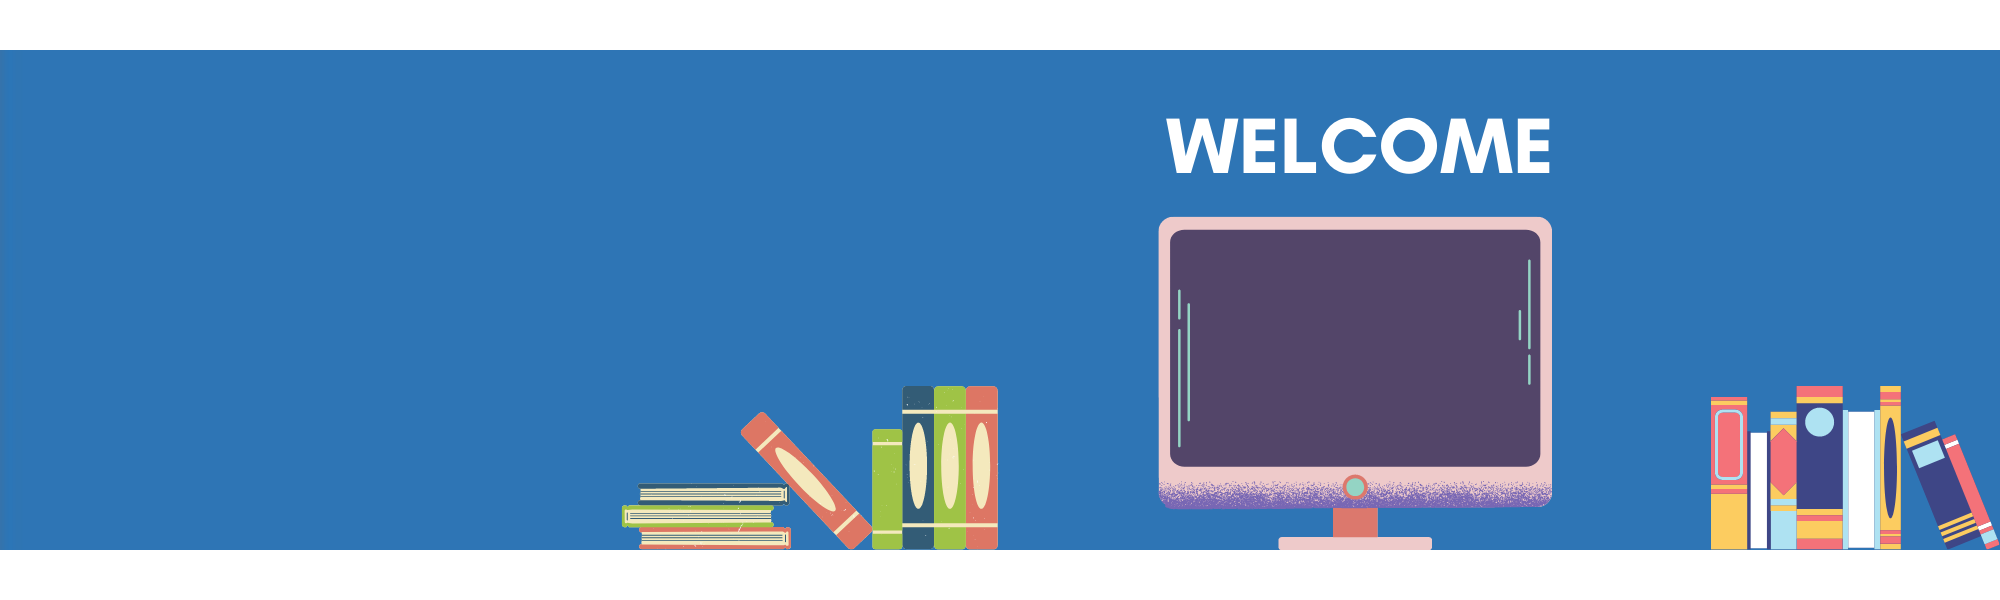
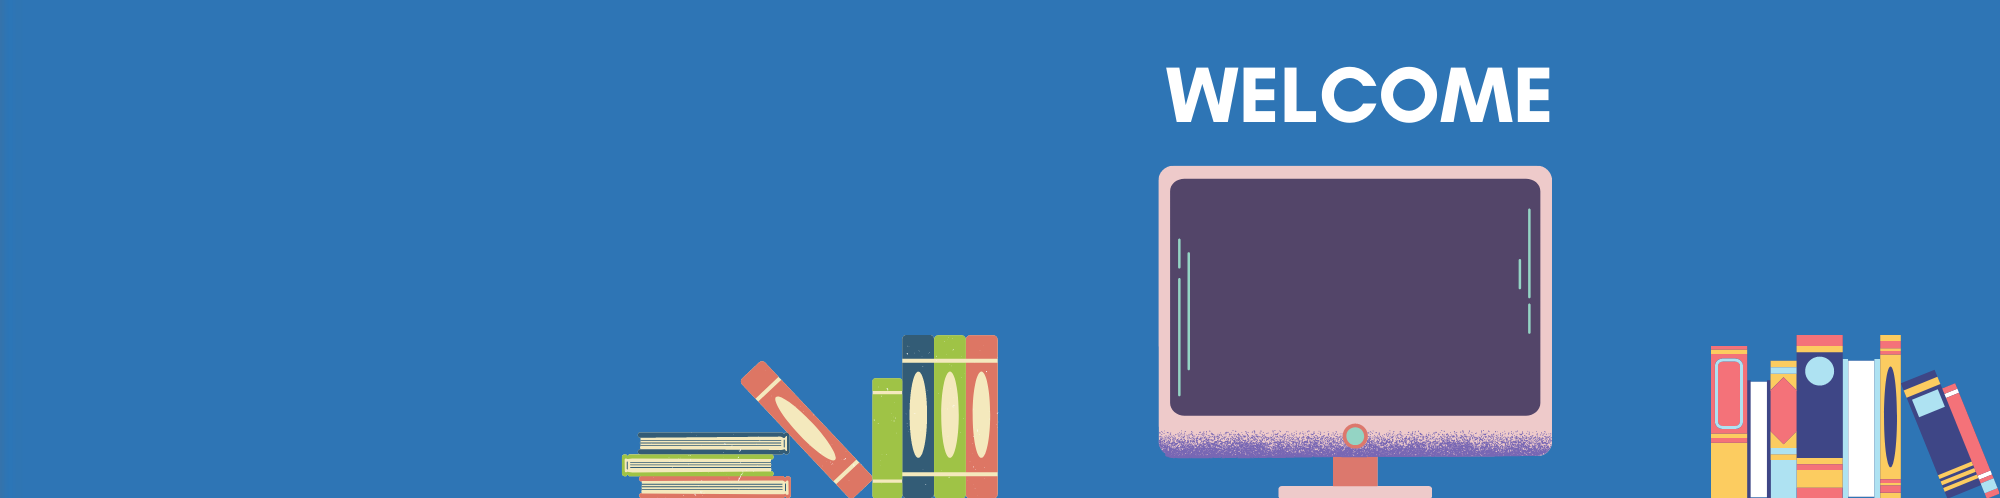
Landing page colour scheme changed at set timed intervals complete

diff --git a/pages/SinglePageTheme.html b/pages/SinglePageTheme.html
@@ -24,53 +24,69 @@
                 <img src="/SinglePageTheme/images/movingBanner.gif" alt="" width="30" height="24" class="d-inline-block align-text-top rounded-circle">
                 Navbar
             </a>
-            <em><span class="navbar-text text-capitalize text-bg-primary px-2">Changing the colour theme every day</span></em>
+            <em><span id="nav_inline_text" class="navbar-text text-capitalize text-bg-warning px-2">Changing the colour theme every day</span></em>
             <button class="navbar-toggler" type="button" data-bs-toggle="collapse" data-bs-target="#navbarNav" aria-controls="navbarNav" aria-expanded="false" aria-label="Toggle navigation">
               <span class="navbar-toggler-icon"></span>
             </button>
             <div class="collapse navbar-collapse" id="navbarNav">
               <ul class="navbar-nav">        
                   <a class="nav-link active" aria-current="page" href="#">Current Home</a>         
-                  <a class="nav-link" href="/index.html">Main Page</a>          
-                  <a class="nav-link" href="#">Link</a>
-                  <a class="nav-link" href="#">Link</a>
+                  <a class="nav-link" href="/index.html">Back to Main Page</a>          
+                  <a class="nav-link" href="#">Link to nowhere</a>
+                  <a class="nav-link" href="#">Link to nowhere</a>
               </ul>
             </div>
-          </div>
+        </div>
     </nav>
 
-    <div id="hero_section" class="carousel">
-        <img src="/SinglePageTheme/images/Blue_Banner.png" class="img-fluid d-block w-100" alt="Hero image">
-        <div class="carousel-caption ">
-            <h1>Hero section,</h1>
-            <p>lorem ipsum dolor sit</p>
+    <div class="container-fluid p-0">
+        <div id="hero_section" class="carousel slide pb-3 bg-black" data-bs-ride="carousel" >
+            <div class="carousel-inner">
+                <div class="carousel-item active" data-bs-interval="5000">
+                    <img src="/SinglePageTheme/images/Blue_Banner_short.png"  alt="Hero image" class="d-block w-100">
+                </div>
+                <div class="carousel-item" data-bs-interval="5000">
+                    <img src="/SinglePageTheme/images/Blue_Banner_Graphic_short.png"  alt="Hero image" class="d-block w-100">
+                </div>
+            </div>
+            <div class="carousel-caption text-start m-0 p-0">
+                <h1 class="fw-bold display-3">Hero section,</h1>
+                <p class="fs-4 text-black fw-semibold mb-sm-5">lorem ipsum dolor sit</p>
+                
+            </div>
         </div>
     </div>
     
     <header>
-        <div id="container_text1" class="container-fluid ">
-            <div class="row bg-white row-cols-1 row-cols-md-3 pb-5">
-                <div class="col text-md-center bg-dark text-white mb-1">
+        <div id="container_text1" class="container-fluid">
+            <div class="row bg-white row-cols-1 row-cols-md-3 ">
+                <div id="header_container1" class="col text-md-center text-bg-dark mb-1 p-4">
                     <section>
                         <h2>LOREM HEADING</h2>
-                        <p>Lorem ipsum dolor sit amet consectetur adipisicing elit. Cupiditate sint dicta enim, magni accusantium eum iusto necessitatibus soluta, eos eaque nihil accusamus aliquid. A eos culpa nisi molestias ut ducimus?
+                        <p>Lorem ipsum dolor sit amet consectetur adipisicing elit.</p>
+                        <p><img src="/SinglePageTheme/images/Blue_Banner.png" alt="banner" width="100px"></p> 
+                            <p>Cupiditate sint dicta enim, magni accusantium eum iusto necessitatibus soluta, eos eaque nihil accusamus aliquid.
                             <span><img src="/SinglePageTheme/images/Beans.gif" alt="beans" width="100px"></span>
                         </p>
                     </section>                 
                 </div>
-                <div class="col text-md-center bg-info mb-1">
+                <div id="header_container2" class="col text-md-center text-bg-info mb-1 p-4">
                     <section>
                         <h2>LOREM HEADING</h2>
-                        <p>Lorem ipsum dolor sit amet consectetur adipisicing elit. Cupiditate sint dicta enim, magni accusantium eum iusto necessitatibus soluta, eos eaque nihil accusamus aliquid. A eos culpa nisi molestias ut ducimus?
-                            <span><img src="/SinglePageTheme/images/Blue_Banner_Graphic.png" alt="banner" width="100px"></span>
+                        <p>Lorem ipsum dolor sit amet consectetur adipisicing elit.</p> 
+                        <p><img src="/SinglePageTheme/images/snail.gif" alt="banner" width="100px"></p> 
+                            <p>Cupiditate sint dicta enim, magni accusantium eum iusto necessitatibus soluta, eos eaque nihil accusamus aliquid. 
+                            <span><img src="/SinglePageTheme/images/Blue_Banner.png" alt="banner" width="100px"></span>
                         </p>
                     </section>
                 </div>
-                <div class="col text-md-center bg-light mb-1">
+                <div id="header_container3" class="col text-md-center text-bg-light mb-1 p-4">
                     <section>
                         <h2>LOREM HEADING</h2>
-                        <p>Lorem ipsum dolor sit amet consectetur adipisicing elit. Cupiditate sint dicta enim, magni accusantium eum iusto necessitatibus soluta, eos eaque nihil accusamus aliquid. A eos culpa nisi molestias ut ducimus?
-                            <span><img src="/SinglePageTheme/images/snail.gif" alt="snail" width="100px"></span>
+                        <p>Lorem ipsum dolor sit amet consectetur adipisicing elit.</p>
+                        <p><img src="/SinglePageTheme/images/Blue_Banner.png" alt="banner" width="100px"></p>  
+                            <p>Cupiditate sint dicta enim, magni accusantium eum iusto necessitatibus soluta, eos eaque nihil accusamus aliquid. 
+                            <span><img src="/SinglePageTheme/images/Beans.gif" alt="snail" width="100px"></span>
                         </p>
                     </section>
                 </div>
@@ -78,11 +94,28 @@
         </div>
     </header>
 
-    <div id="image_filler"
+    <div id="image_filler" class="_container_colour_split">
+        <div class="d-flex">
+            <div class="col">
+                <div class="text-start text-black ps-2 pe-5 me-5 mt-4">
+                    <h4 class="fw-bolder">Subheading intro,</h4>
+                    <p >Lorem ipsum dolor sit amet, consectetur adipisicing elit. Excepturi maiores a eos voluptatibus, fugiat alias ipsum repudiandae.</p>
+                </div>
+                <div id="filler_image" class="mx-auto d-block text-center py-5">
+                    <img src="/SinglePageTheme/images/rain6.jpg" alt="rain" class="rounded-circle img-thumbnail" style="max-width: 300px; max-height: 300px;">
+                </div>
+                <div class="text-end text-white ps-5 pe-2 ms-5 mb-4">
+                    <h4 class="fw-bolder">Subheading intro,</h4>
+                    <p >Lorem ipsum dolor sit amet, consectetur adipisicing elit. Excepturi maiores a eos voluptatibus, fugiat alias ipsum repudiandae.</p>
+                </div>
+            </div>           
+        </div> 
+    </div>
+
     <main>  
         <div id="container_row1_image_text" class="row row-col-1 row-cols-lg-2">
-            <div id="col1_image_text" class="container-fluid">
-                <div class="row row-cols-1 row-cols-md-2 bg-dark-subtle p-3">
+            <div class="container-fluid">
+                <div id="col1_image_text" class="row row-cols-1 row-cols-md-2 bg-dark-subtle p-3">
                     <div class="col p-2 text-center text-black-50 _show_text">
                         <p>Lorem ipsum dolor sit, amet consectetur adipisicing elit. Similique quas alias adipisci beatae accusamus saepe culpa doloribus quia, repellendus neque? Est sit molestias rem optio repellat necessitatibus distinctio recusandae beatae.</p>
                     </div>
@@ -91,8 +124,8 @@
                     </div>
                 </div>
             </div>        
-            <div id="col2_image_text" class="container-fluid">
-                <div class="row row-cols-1 row-cols-md-2 bg-light p-3">
+            <div class="container-fluid">
+                <div id="col2_image_text" class="row row-cols-1 row-cols-md-2 bg-warning-subtle p-3">
                 
                     <div class="col p-2 text-center text-black-50">
                         <img src="/SinglePageTheme/images/truck.png" class="img-fluid _image_resize rounded shadow-sm" alt="car outline">
@@ -103,9 +136,9 @@
                 </div>
             </div>
         </div>
-        <div id="container_row2_image_text" class="row row-col-1 row-cols-lg-2">
-            <div id="col3_image_text" class="container-fluid">
-                <div class="row row-cols-1 row-cols-md-2 bg-dark-subtle p-3">
+        <div class="row row-col-1 row-cols-lg-2">
+            <div class="container-fluid">
+                <div id="col3_image_text" class="row row-cols-1 row-cols-md-2 bg-dark-subtle p-3">
                     <div class="col p-2 text-center text-black-50 _show_text">
                         <p>Lorem ipsum dolor sit, amet consectetur adipisicing elit. Similique quas alias adipisci beatae accusamus saepe culpa doloribus quia, repellendus neque? Est sit molestias rem optio repellat necessitatibus distinctio recusandae beatae.</p>
                     </div>
@@ -114,9 +147,8 @@
                     </div>
                 </div>
             </div>
-            <div id="container_image_text4" class="container-fluid">
-                <div class="row row-cols-1 row-cols-md-2 bg-light p-3">
-                
+            <div class="container-fluid">
+                <div id="col4_image_text" class="row row-cols-1 row-cols-md-2 bg-warning-subtle p-3">      
                     <div class="col p-2 text-center">
                         <img src="/SinglePageTheme/images/docking.png" class="img-fluid _image_resize rounded shadow-sm" alt="car outline">
                     </div>
@@ -128,27 +160,31 @@
         </div>
     </main>
 
-    <div id="icons" class="container-fluid">
+    <div id="icons" class="container-fluid bg-white">
         <div class="row row-cols-1 row-cols-md-3 p-sm-5">
-            <div class="col text-center bg-body-tertiary my-4 py-4  border border-success-subtle">
+            <div id="icons_container1" class="col text-center bg-body-tertiary my-4 py-4  border border-success-subtle">
                 <a href="#">
                     <img src="/SinglePageTheme/images/logo1.svg" class="img-fluid rounded-circle" alt="logo1" width="100px" height="100px">
                 </a>
                 <p class="p-3">Lorem ipsum dolor sit amet consectetur adipisicing elit. Deserunt tempore eum praesentium! </p>
             </div>
-            <div class="col text-center bg-body-secondary my-4 py-4">
+            <div id="icons_container2" class="col text-center bg-body-secondary my-4 py-4">
                 <a href="#">
                     <img src="/SinglePageTheme/images/logo2.png" class="img-fluid rounded-circle" alt="logo2" width="100px" height="100px">
                 </a>
                 <p class="p-3">Lorem ipsum dolor sit amet consectetur adipisicing elit. Deserunt tempore eum praesentium! Vitae quo adipisci provident nam iste repudiandae dolor consequuntur in eos? Dolores, aspernatur similique? Quasi aliquam ut esse?</p>
             </div>
-            <div class="col text-center bg-body-tertiary my-4 py-4 border border-success-subtle">
+            <div id="icons_container3" class="col text-center bg-body-tertiary my-4 py-4 border border-success-subtle">
                 <a href="#">
                     <img src="/SinglePageTheme/images/Tom.gif" class="img-fluid rounded-circle" alt="logo3" width="100px" height="100px">
                 </a>
                 <p class="p-3">Lorem ipsum dolor sit amet consectetur adipisicing elit. Deserunt tempore eum praesentium! Vitae quo adipisci provident nam iste repudiandae dolor.</p>
             </div>
         </div>
+    </div>
+
+    <div class="container bg-success-subtle">
+        <p>charging</p>
     </div>
 
     <footer class="container-fluid text-bg-dark p-3">    

diff --git a/SinglePageTheme/javascript.js b/SinglePageTheme/javascript.js
@@ -1,0 +1,113 @@
+// Changing color schemes at set timed intervals such as minute for testing and day for production 
+
+  // Define the color schemes
+  const colorSchemes = [ 
+    [ 
+    {id: 'nav_inline_text', backgroundColor: 'text-bg-success'},
+    {id: 'header_container1', backgroundColor: 'text-bg-danger'},
+    {id: 'header_container2', backgroundColor: 'text-bg-warning'},
+    {id: 'header_container3', backgroundColor: 'text-bg-secondary'},
+    {id: 'col1_image_text', backgroundColor: 'bg-info-subtle'},
+    {id: 'col2_image_text', backgroundColor: 'bg-success-subtle'},
+    {id: 'col3_image_text', backgroundColor: 'bg-info-subtle'},
+    {id: 'col4_image_text', backgroundColor: 'bg-success-subtle'},
+    {id: 'icons_container1', backgroundColor: 'bg-body-secondary'},
+    {id: 'icons_container2', backgroundColor: 'bg-body-tertiary'},
+    {id: 'icons_container3', backgroundColor: 'bg-body-secondary'}
+    ],
+    [      
+      {id: 'nav_inline_text', backgroundColor: 'text-bg-danger'},
+      {id: 'header_container1', backgroundColor: 'text-bg-dark'},
+      {id: 'header_container2', backgroundColor: 'text-bg-info'},
+      {id: 'header_container3', backgroundColor: 'text-bg-light'},
+      {id: 'col1_image_text', backgroundColor: 'bg-dark-subtle'},
+      {id: 'col2_image_text', backgroundColor: 'bg-light'},
+      {id: 'col3_image_text', backgroundColor: 'bg-dark-subtle'},
+      {id: 'col4_image_text', backgroundColor: 'bg-light'},
+      {id: 'icons_container1', backgroundColor: 'bg-body-tertiary'},
+      {id: 'icons_container2', backgroundColor: 'bg-body-secondary'},
+      {id: 'icons_container3', backgroundColor: 'bg-body-tertiary'} 
+    ],
+    [ 
+          
+      {id: 'nav_inline_text', backgroundColor: 'text-bg-warning'},
+      {id: 'header_container1', backgroundColor: 'text-bg-success'},
+      {id: 'header_container2', backgroundColor: 'text-bg-danger'},
+      {id: 'header_container3', backgroundColor: 'text-bg-dark'},
+      {id: 'col1_image_text', backgroundColor: 'bg-warning-subtle'},
+      {id: 'col2_image_text', backgroundColor: 'bg-dark-subtle'},
+      {id: 'col3_image_text', backgroundColor: 'bg-warning-subtle'},
+      {id: 'col4_image_text', backgroundColor: 'bg-dark-subtle'},
+      {id: 'icons_container1', backgroundColor: 'bg-warning-subtle'},
+      {id: 'icons_container2', backgroundColor: 'bg-info-subtle'},
+      {id: 'icons_container3', backgroundColor: 'bg-warning-subtle'} 
+    ],
+  ];
+
+
+// Function to remove the bootstrap 5 classes from an element that contains bg
+// assistance from Bito AI
+const removeColorScheme = (elementId) => {
+  const element = document.getElementById(elementId);
+  console.log("Remove Element id = " + elementId.toString() 
+  + " ,element = "+ element );
+  if (element && element instanceof HTMLElement && element.classList) {
+    const classesToRemove = [...element.classList].filter(className => className.includes('bg'));
+    element.classList.remove(...classesToRemove);
+  }
+};
+
+  // Function to change the color scheme of an element
+const addColorScheme = (elementId, backgroundColor) => {
+  const element = document.getElementById(elementId);
+  console.log("Change Element id = " + elementId.toString()
+  + " ,element = "+ element + " ,background colour = "+ backgroundColor);
+  if (element) {
+    element.classList.add(backgroundColor);
+  }
+};
+
+
+// Function to change the color schemes every minute
+const updateColorSchemes = () => {
+  // Get the current minute
+  const currentTime = new Date().getMinutes();
+
+  // Get the current hour
+  //const currentTime = new Date().getHours();
+  console.log("currentTime = " + currentTime);
+
+  // Calculate the index of the color scheme for 1 minute change
+  const colorSchemeIndex = currentTime % colorSchemes.length;
+  console.log("ColorScheme length = " + colorSchemes.length);
+  console.log("colorScheme index = " + colorSchemeIndex);
+
+  // Get the color scheme array
+  const schemeArr = colorSchemes[colorSchemeIndex];
+  console.log("scheme = " + schemeArr.toString());
+
+
+  // Iterate through a color scheme array
+  schemeArr.forEach((scheme)=> {
+      console.log("scheme id = "+ scheme.id);
+      console.log("scheme backgroundColor = "+ scheme.backgroundColor);
+      
+      // Remove color scheme classes from the current element
+      removeColorScheme(scheme.id);
+
+      // Apply color scheme classes to the current element
+      addColorScheme(scheme.id, scheme.backgroundColor);
+    
+  });
+};
+// Call the updateColorSchemes function initially
+updateColorSchemes();
+
+// Call the updateColorSchemes function every minute
+setInterval(updateColorSchemes, 60 * 1000);
+
+// Call the updateColorSchemes function every 24 hours
+//setInterval(updateColorSchemes, 24 * 60 * 60 * 1000);
+
+// Code kept on server-side as client naturally will not be on the landing page long enough 
+// for effect to happen daily. Can consider having it client-side if timed interval set in minutes.

diff --git a/SinglePageTheme/style.css b/SinglePageTheme/style.css
@@ -1,4 +1,6 @@
 
+
+
 #icons img {
     transition: all ease-in 500ms ;
 }
@@ -22,3 +24,25 @@
     max-width: 50%;
     max-height: auto;
 }
+
+._container_colour_split {
+    width: 100%;
+    height: auto;
+    background-color: rgb(236, 43, 136);
+    background-image: linear-gradient(
+        to bottom right,
+        #ffff 50%,
+        #000 50%,
+        #000 100%
+    );
+}
+
+#filler_image {
+    transition: all ease-in 500ms;
+}
+    #filler_image img:hover {
+        box-shadow: 0 4px 8px 0 rgba(0, 0, 0, 0.2), 0 6px 20px 0 rgba(0, 0, 0, 0.19);
+        transform: scaleY(0.99);
+    }
+
+
